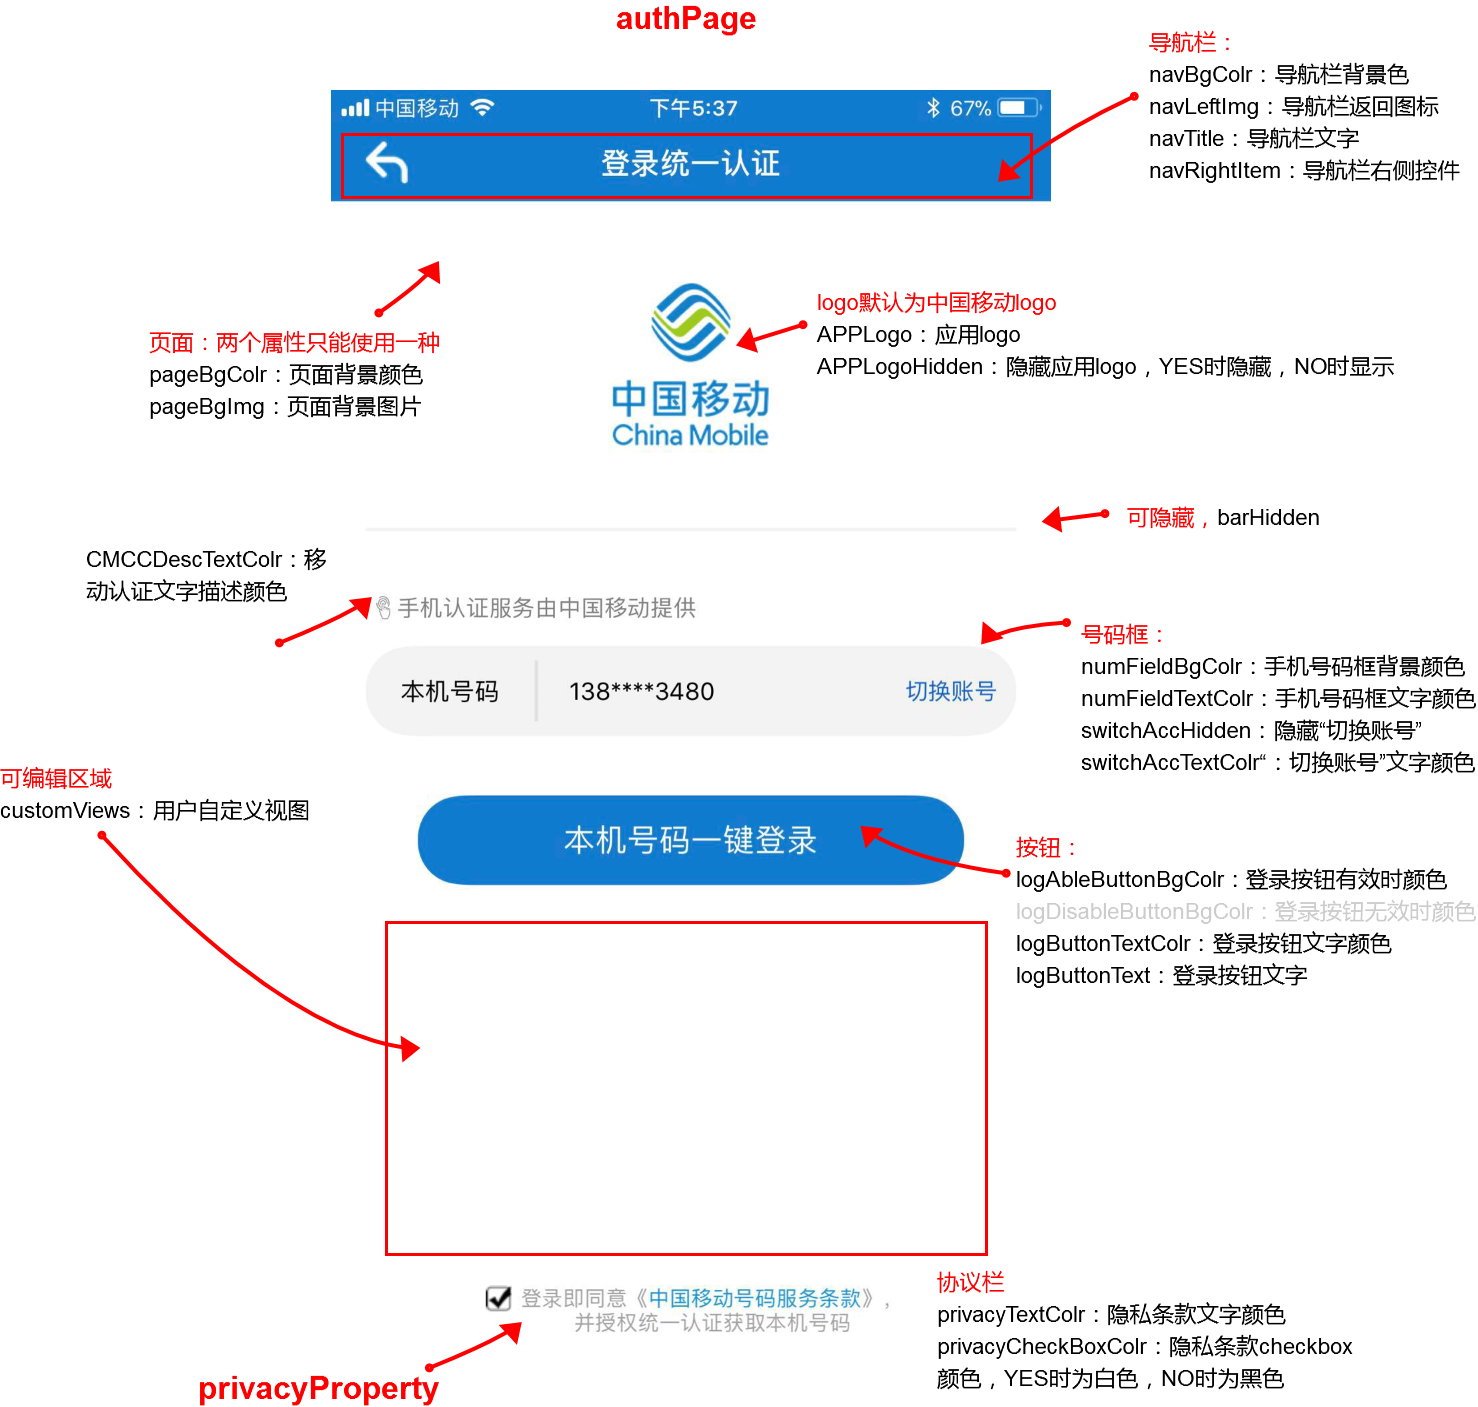
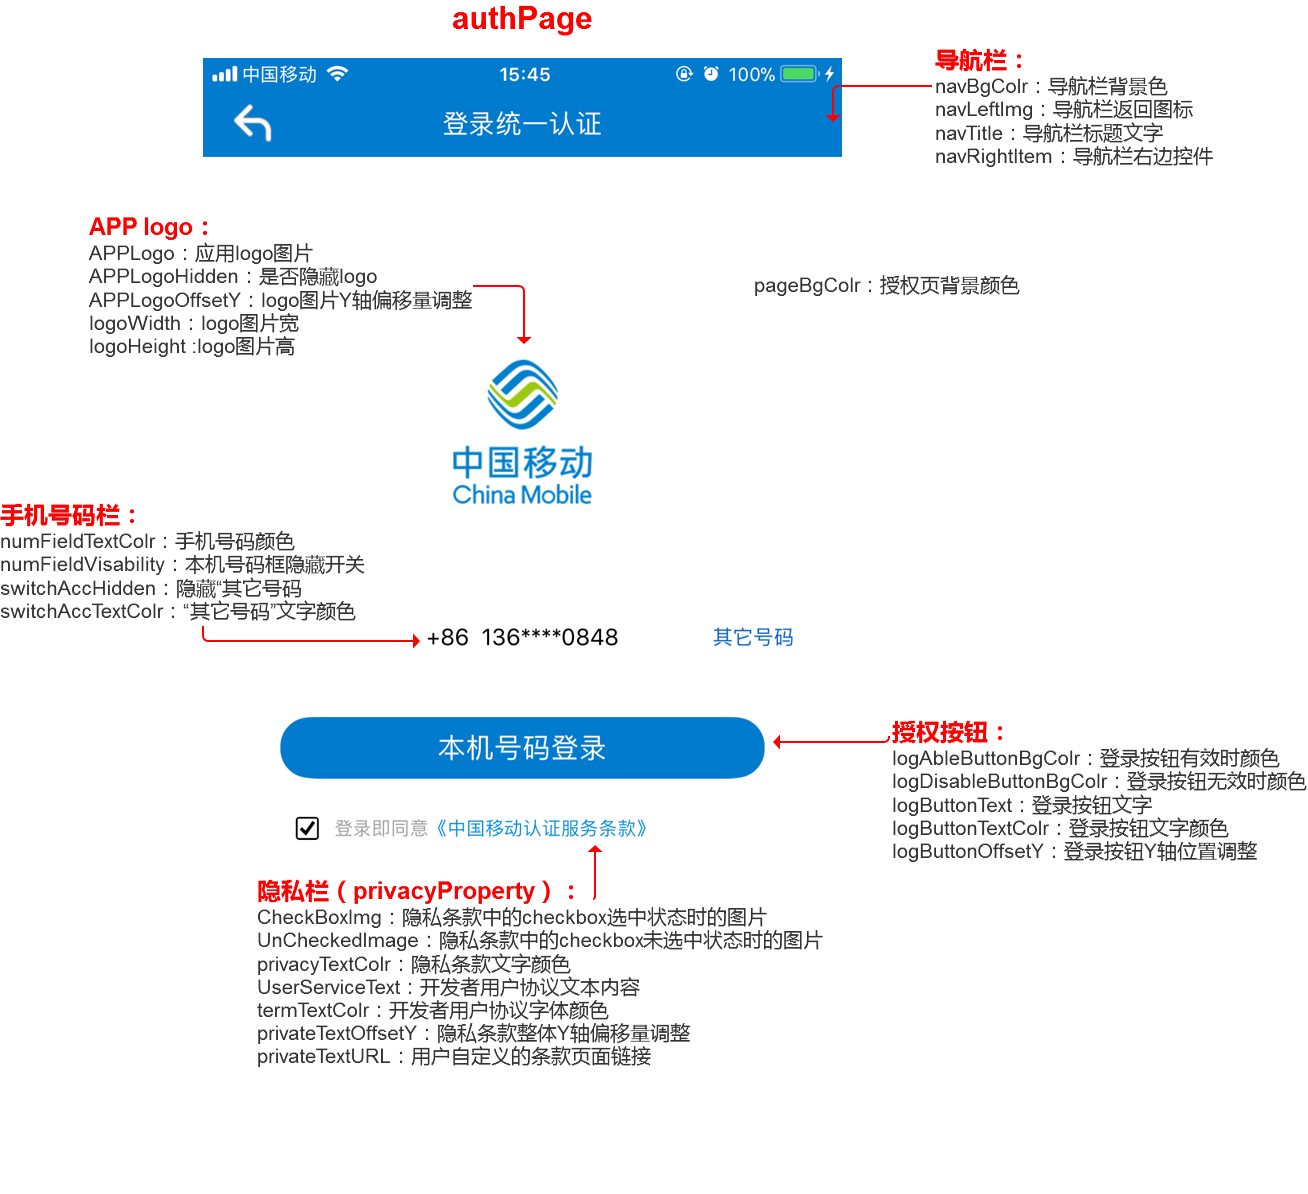
修改授权页ui描述

diff --git a/quick_login_ios.md b/quick_login_ios.md
@@ -417,13 +417,11 @@ SDK自动弹出登录缓冲界面（图一，<font  style="color:blue; font-styl
 
 ## 2.6. 开发者自定义UI
 
-SDK**登录授权页**和**短信验证码页面**部分元素可供开发者编辑，如开发者不需自定义，则使用SDK提供的默认样式，建议开发者按照开发者自定义规则个性化授权页面和短信验证页面：
+SDK**登录授权页**部分元素可供开发者编辑，如开发者不需自定义，则使用SDK提供的默认样式，建议开发者按照开发者自定义规则个性化授权页面和短信验证页面：
 
 
 
 ![授权页](image\auth-page.png)
-
-![授权页](image\sms-page.png)
 
 ### 2.6.1. 方法说明
 
@@ -486,12 +484,12 @@ SDK**登录授权页**和**短信验证码页面**部分元素可供开发者编
 | APPLogoHidden          | 隐藏应用logo，YES时隐藏，NO时显示                  | Bool               | 必须嵌套在authPage                 | 2        |
 | APPLogoOffsetY         | logo图片Y轴偏移量调整                              | NSNumber           | 必须嵌套在authPage                 | 2        |
 | logoWidth              | logo图片宽                                         | NSNumber           | 必须嵌套在authPage                 | 2        |
-| logoHeight             | logo图片高                                         | NSNumber           | 必须嵌套在authPage                 | 2        |
+| logoHeight  | logo图片高                                         | NSNumber           | 必须嵌套在authPage                 | 2        |
 | numFieldBgColr         | 手机号码框背景颜色                                 | UIColor            | 必须嵌套在authPage                 | 2        |
 | numFieldTextColr       | 手机号码框文字颜色                                 | UIColor            | 必须嵌套在authPage                 | 2        |
 | numFieldVisability     | 本机号码框隐藏开关                                 | Bool               | 必须嵌套在authPage                 | 2        |
-| switchAccHidden        | 隐藏“切换账号”，YES时隐藏，NO时显示                | Bool               | 必须嵌套在authPage                 | 2        |
-| switchAccTextColr      | “切换账号”文字颜色                                 | UIColor            | 必须嵌套在authPage                 | 2        |
+| switchAccHidden        | 隐藏“其它号码”，YES时隐藏，NO时显示                | Bool               | 必须嵌套在authPage                 | 2        |
+| switchAccTextColr      | “其它号码”文字颜色                             | UIColor            | 必须嵌套在authPage                 | 2        |
 | customView1Y           | 第一个customView的Y轴偏移量调整                    | NSNumber           | 必须嵌套在authPage                 | 2        |
 | customView1H           | 第一个customView的高度                             | NSNumber           | 必须嵌套在authPage                 | 2        |
 | customView2Y           | 第二个customView的Y轴偏移量调整                    | NSNumber           | 必须嵌套在authPage                 | 2        |
